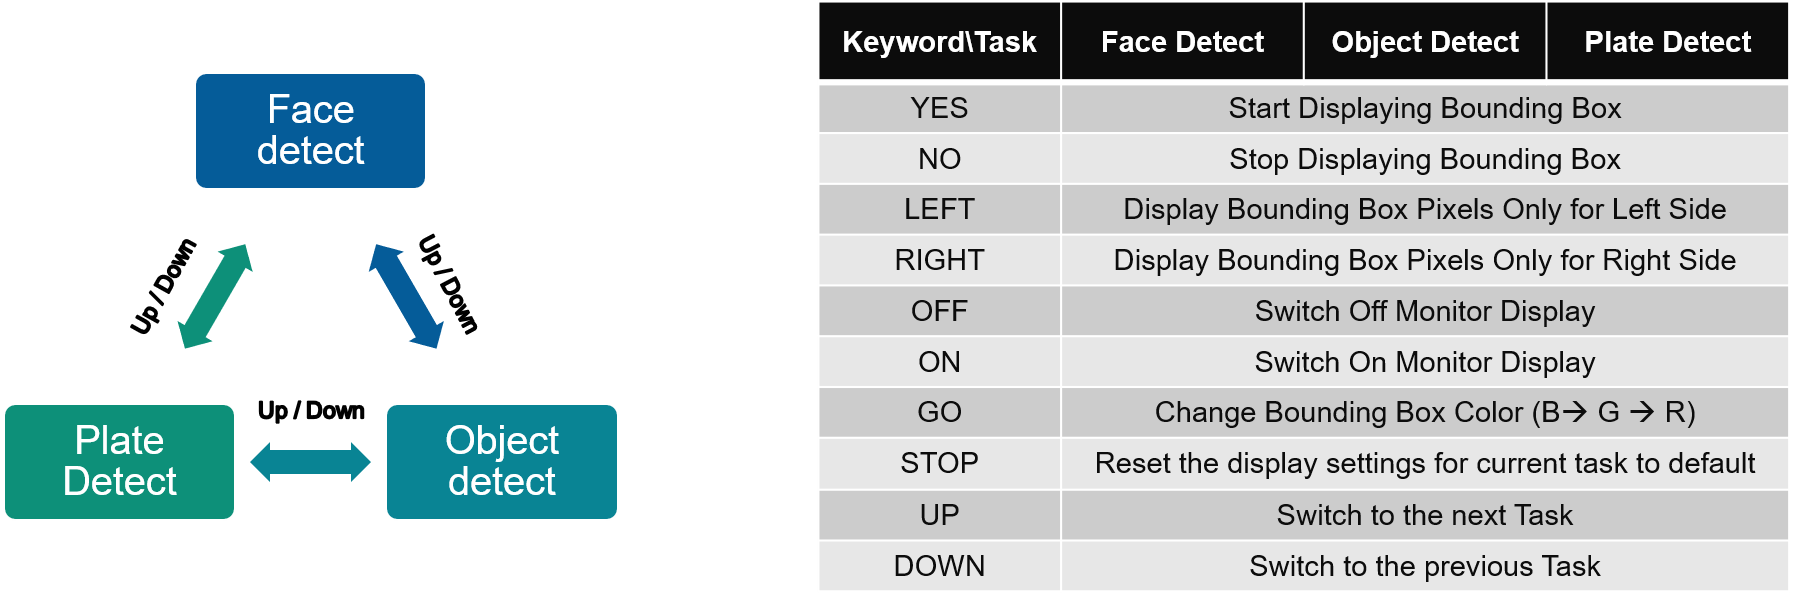
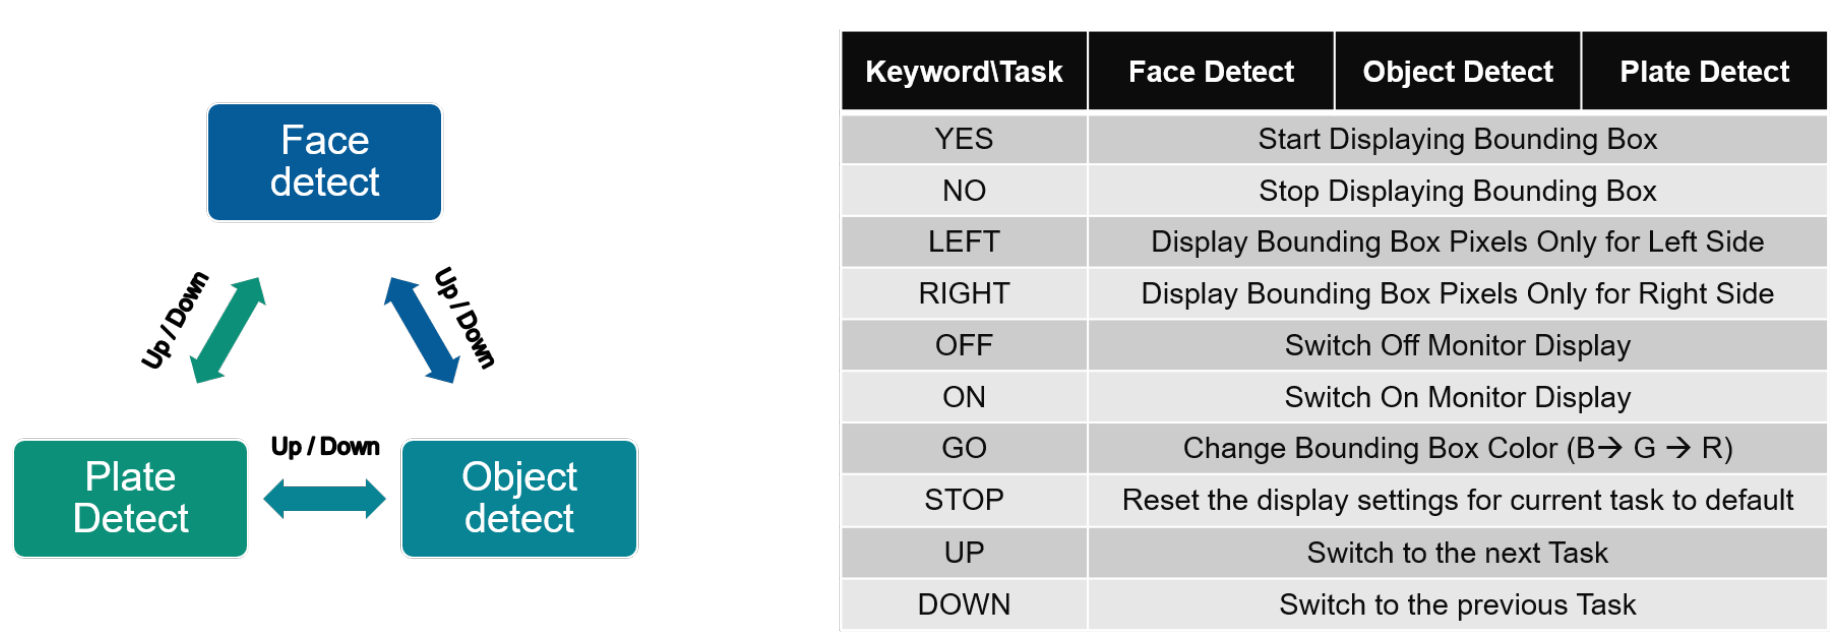
update figures in notebook typo in error messages

diff --git a/src/keyword_spotting.cpp b/src/keyword_spotting.cpp
@@ -278,7 +278,7 @@ void Keyword_Spotting_Debug(char *testfile)
 			fp = fopen(FileName.c_str(), "rb");
 			if(fp == NULL){
 				printf("\nException opening/reading the audio file %s \n",FileName.c_str());
-				printf("Excepted way of storing the audio file names in %s file is keyword/audio_filename.wav \n\n",testfile);
+				printf("Expected way of storing the audio file names in %s file is keyword/audio_filename.wav \n\n",testfile);
 				return;
 			}
 			fread(&InputChunk[0],sizeof(short),16000,fp);  // Read the audio data

diff --git a/src/detection.cpp b/src/detection.cpp
@@ -128,7 +128,7 @@ void Detection()
 		if (cur_frame.empty())
 		{
 			std::cout << "!!! Failed to read frame. please run init_nlp_smartvision.sh to initialize videopipeline" << std::endl;
-			return 0;
+			exit(EXIT_FAILURE);
 			// don't let the execution continue, else application may crash.
 		}
 		switch (model)
